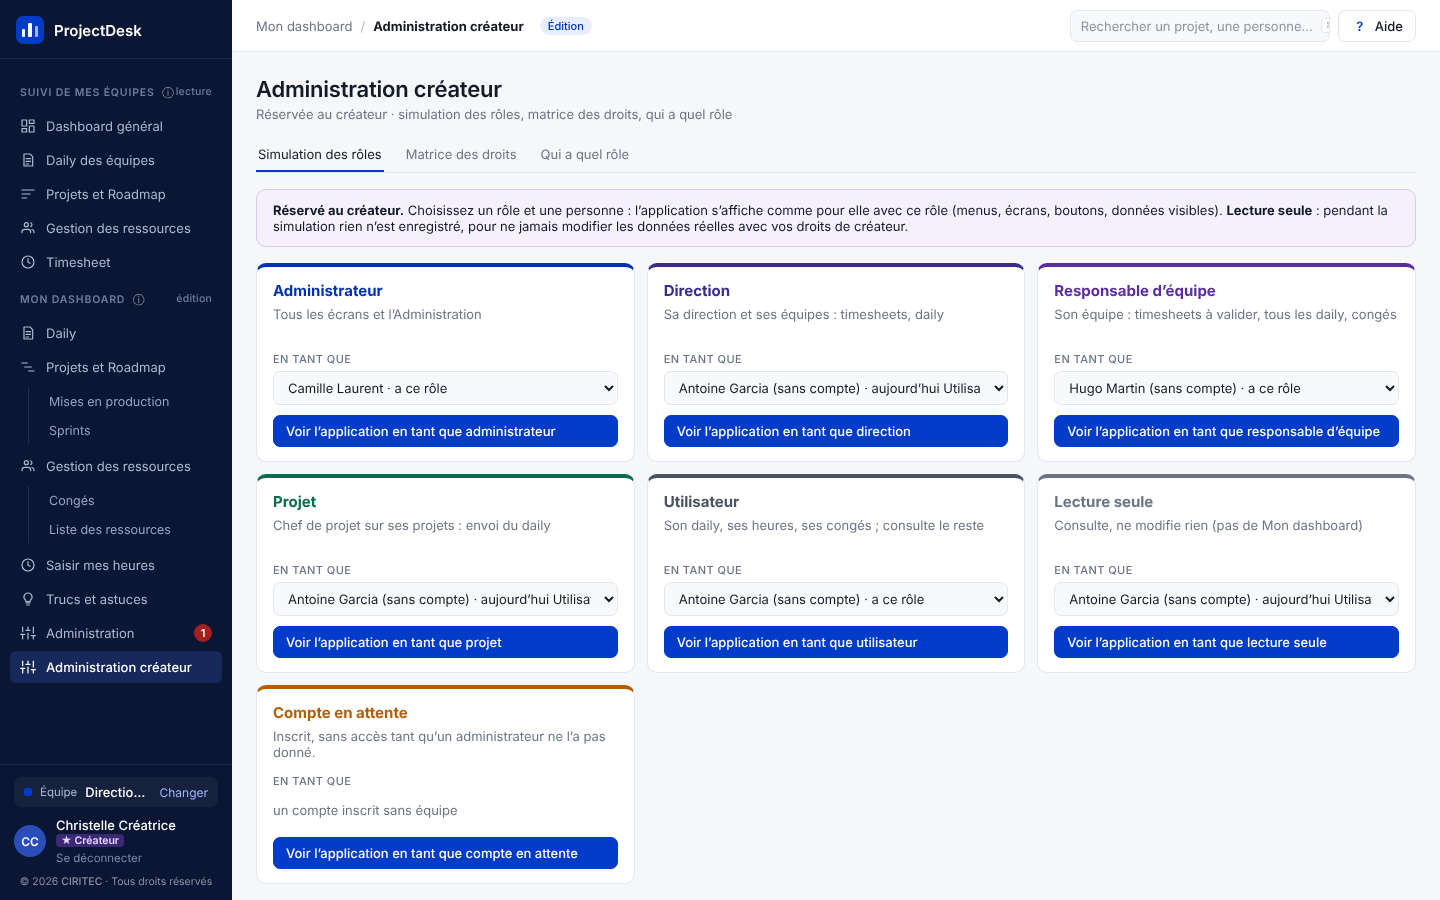
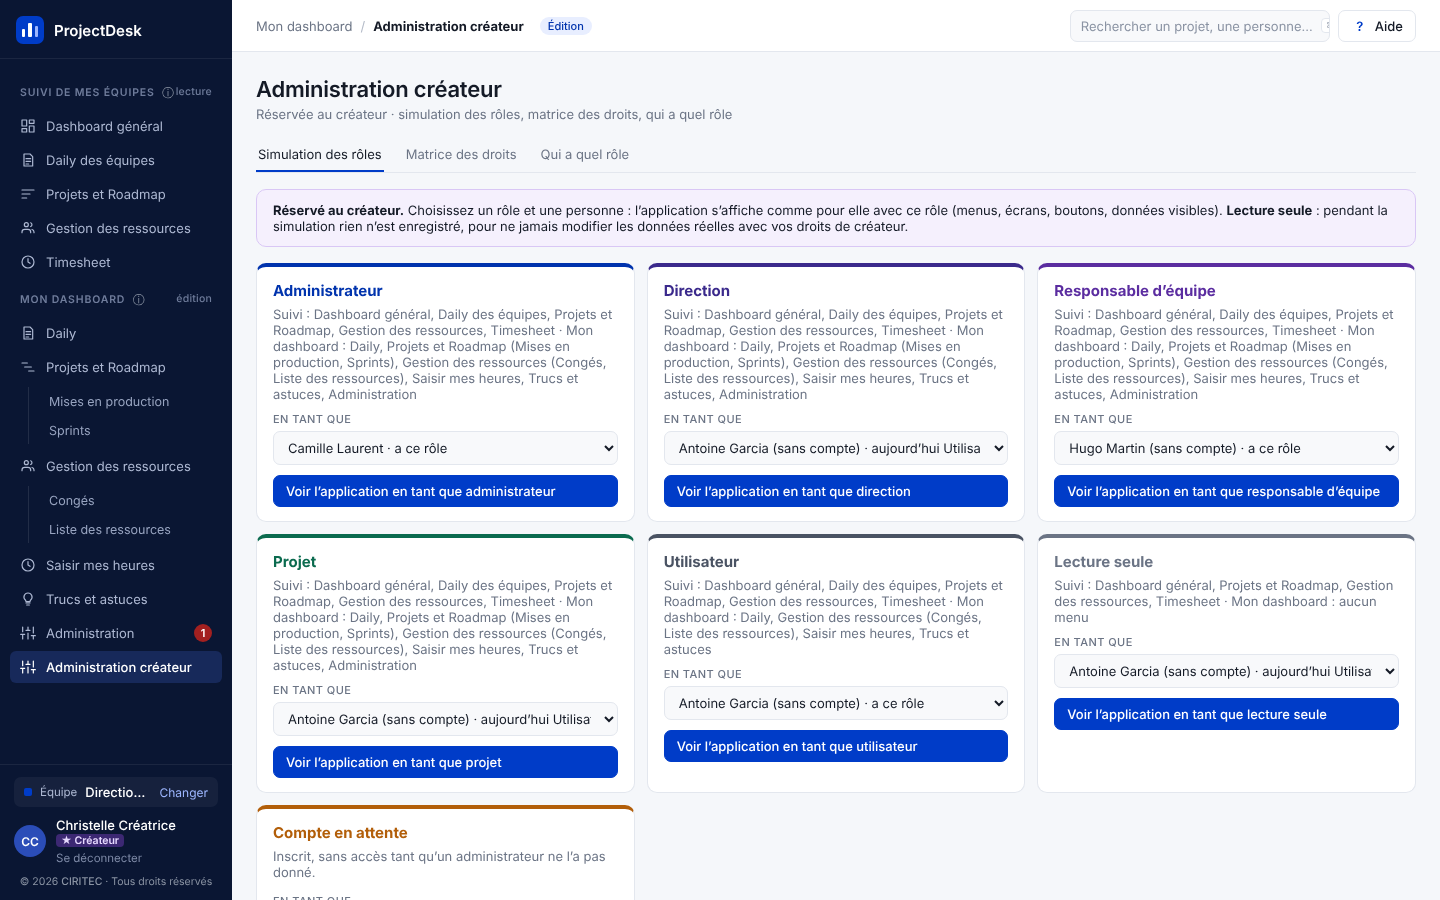
Cohérence matrice des droits et affichage : sous-menus et descriptions de rôles calculés d'après la matrice (2.46)
Claude-Session: https://claude.ai/code/session_016gJ86ah3wuZcBiGAqfo7RG

Changed region(s): [[0.1875, 0.3422, 1.0, 1.0]]

diff --git a/app/js/coquille.js b/app/js/coquille.js
@@ -39,9 +39,9 @@ const Coquille = (() => {
   const MENU_MOI = [
     { id: 'daily', libelle: 'Daily', icone: 'daily' },
     // Projets et Roadmap : sous-menus comme Gestion des ressources (porteur 2026-10-23, maquette menu-projets-roadmap/)
-    // Menu masqué si le droit « projets » de la matrice est « Non » pour mon rôle (le rôle Utilisateur, porteur 2026-10-25)
-    { id: 'mesProjets', libelle: 'Projets et Roadmap', icone: 'road', visible: () => niveauDroit('projets') !== 'non',
-      enfants: [{ id: 'mesProjets', libelle: 'Mises en production' }, { id: 'mesSprints', libelle: 'Sprints' }] },
+    // Chaque sous-menu suit sa ligne de la matrice : Mises en production = droit « projets », Sprints = son onglet (porteur 2026-10-25)
+    { id: 'mesProjets', libelle: 'Projets et Roadmap', icone: 'road',
+      enfants: [{ id: 'mesProjets', libelle: 'Mises en production', droit: 'projets' }, { id: 'mesSprints', libelle: 'Sprints' }] },
     { id: 'conges', libelle: 'Gestion des ressources', icone: 'ress',
       enfants: [{ id: 'conges', libelle: 'Congés' }, { id: 'listeRessources', libelle: 'Liste des ressources' }] },
     // Saisir mes heures : menu à part, sorti de Gestion des ressources (porteur, 2026-10-22) ; le suivi des équipes
@@ -55,8 +55,27 @@ const Coquille = (() => {
   ];
   const PLEIN_ECRAN = ['connexion', 'choixEquipe'];
 
-  // Menu ouvert à mon rôle : son écran (ou, pour un menu à sous-menus, l'un de ses sous-menus) a un onglet permis
-  const menuOuvert = item => item.enfants ? item.enfants.some(e => ecranOuvert(e.id)) : ecranOuvert(item.id);
+  /* Menu ouvert à un rôle (le mien si aucun rôle n'est précisé) : son écran (ou, pour un menu à sous-menus, l'un de
+     ses sous-menus) a un onglet permis, et le droit propre du sous-menu n'est pas « Non » */
+  const enfantOuvert = (e, role) => (!e.droit || niveauPour(e.droit, role) !== 'non') && ecranOuvert(e.id, role);
+  const menuOuvert = (item, role) => item.enfants ? item.enfants.some(e => enfantOuvert(e, role)) : ecranOuvert(item.id, role);
+
+  /* Menus que voit un rôle, d'après la matrice : { suivi, moi } (listes de menus avec leurs sous-menus ouverts).
+     Sert à la barre latérale (mon rôle) et aux cartes des rôles (Simulation, Qui a quel rôle) : un seul calcul, donc
+     jamais d'écart entre ce qui est décrit et ce qui est affiché. Le menu du créateur n'est pas un menu de rôle. */
+  function menusDuRole(role) {
+    const suivi = MENU_GENERAL.filter(item => niveauPour(item.droit, role) !== 'non' && ecranOuvert(item.id, role));
+    const moi = niveauPour('mon_dashboard', role) === 'non' ? []
+      : MENU_MOI.filter(item => (role ? !item.visible : (!item.visible || item.visible())) && menuOuvert(item, role))
+        .map(item => ({ ...item, enfants: item.enfants && item.enfants.filter(e => enfantOuvert(e, role)) }));
+    return { suivi, moi };
+  }
+  // « Suivi : Dashboard général, Timesheet · Mon dashboard : Daily, Gestion des ressources (Congés, …) » pour un rôle
+  function resumeDuRole(role) {
+    const { suivi, moi } = menusDuRole(role);
+    const nom = m => m.libelle + (m.enfants ? ` (${m.enfants.map(e => e.libelle).join(', ')})` : '');
+    return `Suivi : ${suivi.map(nom).join(', ') || 'aucun menu'} · Mon dashboard : ${moi.map(nom).join(', ') || 'aucun menu'}`;
+  }
 
   function lienMenu(item) {
     const actif = etat.ecran === item.id && !item.enfants;
@@ -64,7 +83,7 @@ const Coquille = (() => {
     const html = `<a class="menu-lien${actif ? ' actif' : ''}" data-action="aller" data-ecran="${item.id}">${icone(item.icone)}
       <span>${esc(item.libelle)}</span>${alerte ? `<span class="pastille-alerte">${alerte}</span>` : ''}</a>`;
     if (!item.enfants) return html;
-    return html + `<div class="sous-menu">${item.enfants.filter(e => ecranOuvert(e.id)).map(e =>
+    return html + `<div class="sous-menu">${item.enfants.map(e =>
       `<a class="sous-lien${etat.ecran === e.id ? ' actif' : ''}" data-action="aller" data-ecran="${e.id}">${esc(e.libelle)}</a>`).join('')}</div>`;
   }
 
@@ -72,15 +91,15 @@ const Coquille = (() => {
   function barreLaterale() {
     const eq = equipe(etat.equipeCourante);
     const nom = etat.session.user.name || etat.session.user.email;
-    const menusSuivi = MENU_GENERAL.filter(item => niveauDroit(item.droit) !== 'non' && ecranOuvert(item.id));
+    const menus = menusDuRole();
     return `
     <aside class="laterale${ui('menuLateral', { ouvert: false }).ouvert ? ' ouverte' : ''}">
       ${C.marque()}
       <nav>
-        ${menusSuivi.length ? `<div class="menu-titre"><span>Suivi de mes équipes ${C.aide('sectionGeneral')}</span><span>lecture</span></div>
-        ${menusSuivi.map(lienMenu).join('')}` : ''}
+        ${menus.suivi.length ? `<div class="menu-titre"><span>Suivi de mes équipes ${C.aide('sectionGeneral')}</span><span>lecture</span></div>
+        ${menus.suivi.map(lienMenu).join('')}` : ''}
         ${niveauDroit('mon_dashboard') === 'non' ? '' : `<div class="menu-titre"><span>Mon dashboard ${C.aide('sectionMoi')}</span><span>édition</span></div>
-        ${MENU_MOI.filter(item => (!item.visible || item.visible()) && menuOuvert(item)).map(lienMenu).join('')}`}
+        ${menus.moi.map(lienMenu).join('')}`}
       </nav>
       <div class="bloc-utilisateur">
         <div class="bloc-equipe">${C.pastille(eq.couleur)}<span class="discret">Équipe</span><b>${etat.equipeCourante ? esc(eq.nom) : 'aucune'}</b>
@@ -169,7 +188,7 @@ const Coquille = (() => {
     </div>`;
   }
 
-  return { rendre };
+  return { rendre, resumeDuRole };
 })();
 
 // Actions de la coquille

diff --git a/app/index.html b/app/index.html
@@ -11,7 +11,7 @@
 <link href="https://fonts.googleapis.com/css2?family=IBM+Plex+Sans:wght@400;500;600;700&family=IBM+Plex+Mono:wght@400;500&display=swap" rel="stylesheet">
 <!-- ?v= : version des fichiers (= version du DAT), à changer à chaque livraison : force le navigateur
      à recharger le code au lieu de réutiliser une ancienne copie en mémoire. -->
-<link rel="stylesheet" href="css/theme.css?v=2.45">
+<link rel="stylesheet" href="css/theme.css?v=2.46">
 </head>
 <body>
   <!-- Toute l'interface est dessinée dans #app par js/coquille.js et js/ecrans/*.js -->
@@ -19,32 +19,32 @@
   <div id="notification" class="notification" role="status"></div>
 
   <!-- Ordre de chargement : configuration, outils, état, puis écrans (qui s'enregistrent dans Ecrans) -->
-  <script src="js/config.js?v=2.45"></script>
-  <script src="js/api.js?v=2.45"></script>
-  <script src="js/calculs.js?v=2.45"></script>
-  <script src="js/etat.js?v=2.45"></script>
-  <script src="js/composants.js?v=2.45"></script>
-  <script src="js/coquille.js?v=2.45"></script>
-  <script src="js/panneau-projet.js?v=2.45"></script>
-  <script src="js/modale.js?v=2.45"></script>
-  <script src="js/excel.js?v=2.45"></script>
-  <script src="js/roles.js?v=2.45"></script>
-  <script src="js/simulation.js?v=2.45"></script>
-  <script src="js/ecrans/connexion.js?v=2.45"></script>
-  <script src="js/ecrans/choix-equipe.js?v=2.45"></script>
-  <script src="js/ecrans/dashboard.js?v=2.45"></script>
-  <script src="js/ecrans/projets.js?v=2.45"></script>
-  <script src="js/ecrans/ressources.js?v=2.45"></script>
-  <script src="js/ecrans/administration.js?v=2.45"></script>
-  <script src="js/ecrans/timesheet.js?v=2.45"></script>
-  <script src="js/ecrans/daily-equipes.js?v=2.45"></script>
-  <script src="js/ecrans/daily.js?v=2.45"></script>
-  <script src="js/ecrans/mes-projets.js?v=2.45"></script>
-  <script src="js/ecrans/sprints.js?v=2.45"></script>
-  <script src="js/ecrans/conges.js?v=2.45"></script>
-  <script src="js/ecrans/liste-ressources.js?v=2.45"></script>
-  <script src="js/ecrans/mon-timesheet.js?v=2.45"></script>
-  <script src="js/ecrans/mon-admin.js?v=2.45"></script>
-  <script src="js/ecrans/astuces.js?v=2.45"></script>
+  <script src="js/config.js?v=2.46"></script>
+  <script src="js/api.js?v=2.46"></script>
+  <script src="js/calculs.js?v=2.46"></script>
+  <script src="js/etat.js?v=2.46"></script>
+  <script src="js/composants.js?v=2.46"></script>
+  <script src="js/coquille.js?v=2.46"></script>
+  <script src="js/panneau-projet.js?v=2.46"></script>
+  <script src="js/modale.js?v=2.46"></script>
+  <script src="js/excel.js?v=2.46"></script>
+  <script src="js/roles.js?v=2.46"></script>
+  <script src="js/simulation.js?v=2.46"></script>
+  <script src="js/ecrans/connexion.js?v=2.46"></script>
+  <script src="js/ecrans/choix-equipe.js?v=2.46"></script>
+  <script src="js/ecrans/dashboard.js?v=2.46"></script>
+  <script src="js/ecrans/projets.js?v=2.46"></script>
+  <script src="js/ecrans/ressources.js?v=2.46"></script>
+  <script src="js/ecrans/administration.js?v=2.46"></script>
+  <script src="js/ecrans/timesheet.js?v=2.46"></script>
+  <script src="js/ecrans/daily-equipes.js?v=2.46"></script>
+  <script src="js/ecrans/daily.js?v=2.46"></script>
+  <script src="js/ecrans/mes-projets.js?v=2.46"></script>
+  <script src="js/ecrans/sprints.js?v=2.46"></script>
+  <script src="js/ecrans/conges.js?v=2.46"></script>
+  <script src="js/ecrans/liste-ressources.js?v=2.46"></script>
+  <script src="js/ecrans/mon-timesheet.js?v=2.46"></script>
+  <script src="js/ecrans/mon-admin.js?v=2.46"></script>
+  <script src="js/ecrans/astuces.js?v=2.46"></script>
 </body>
 </html>

diff --git a/tests/parcours.js b/tests/parcours.js
@@ -875,6 +875,30 @@ const verifier = (nom, condition, detail = '') => { resultats.push({ nom, ok: !!
       && document.querySelector('.moi-nom').textContent === 'Thomas Bernard'));
     verifier('Simulation : le rôle Utilisateur n’a pas le menu Projets et Roadmap de Mon dashboard',
       !(await page.$('.laterale [data-ecran="mesProjets"]')) && !(await page.$('.laterale [data-ecran="mesSprints"]')));
+    // Cohérence matrice ↔ affichage : pour chaque rôle, les menus de la barre latérale sont exactement ceux que la matrice ouvre
+    const incoherences = await page.evaluate(() => {
+      const ecarts = [], niveau = (role, droit) => niveauDuRole(role, droit);
+      const personne = etat.simulation.ressourceId;
+      ROLES_CHOISISSABLES.forEach(role => {
+        Simulation.demarrer(role, personne);
+        const affiche = new Set([...document.querySelectorAll('.laterale .menu-lien > span:first-of-type, .laterale .sous-lien')].map(e => e.textContent.trim()));
+        const dashboard = niveau(role, 'mon_dashboard') !== 'non', ouvert = d => niveau(role, d) !== 'non';
+        const attendu = { 'Dashboard général': ouvert('suivi_dashboard'), 'Daily des équipes': ouvert('daily_equipes'), 'Timesheet': ouvert('suivi_timesheet'),
+          'Mises en production': dashboard && ouvert('projets'), 'Sprints': dashboard && ouvert('onglet_admin_sprints'),
+          'Congés': dashboard && (ouvert('onglet_conges_grille') || ouvert('onglet_conges_recap')), 'Saisir mes heures': dashboard,
+          'Liste des ressources': dashboard, 'Daily': dashboard };
+        Object.entries(attendu).forEach(([menu, doitEtre]) => { if (affiche.has(menu) !== doitEtre) ecarts.push(`${role} : « ${menu} » ${doitEtre ? 'manque' : 'affiché à tort'}`); });
+        // Le menu parent « Projets et Roadmap » de Mon dashboard n'existe que si l'un de ses sous-menus est ouvert
+        const parent = !!document.querySelector('.laterale .menu-lien[data-ecran="mesProjets"]');
+        if (parent !== (attendu['Mises en production'] || attendu['Sprints'])) ecarts.push(`${role} : menu parent Projets et Roadmap incohérent`);
+      });
+      Simulation.demarrer('utilisateur', personne);
+      return ecarts;
+    });
+    verifier('Matrice des droits ↔ affichage : pour chaque rôle, menus et sous-menus de la barre latérale = ce que la matrice ouvre', incoherences.length === 0, incoherences.join(' ; '));
+    verifier('Cartes des rôles : la description est calculée d’après la matrice (le rôle Utilisateur n’a plus Projets et Roadmap)',
+      await page.evaluate(() => { const u = Simulation.ROLES.find(r => r.cle === 'utilisateur').description;
+        return u.includes('Mon dashboard : Daily') && !u.includes('Projets et Roadmap (Mises'); }));
     // Droits par menu de Suivi de mes équipes (migration 037) : menu masqué si « Non » ; avant la migration, repli sur « general »
     const parMenu = await page.evaluate(() => {
       const ligne = etat.d.droitsRoles.find(d => d.role === monRole() && d.droit === 'suivi_projets'), avant = ligne.niveau;

diff --git a/app/js/config.js b/app/js/config.js
@@ -61,14 +61,14 @@ const ROLES_PROJET = { CHEF: 'Chef de projet', MEMBRE: 'Membre', LECTEUR: 'Lecte
    responsables_equipe, rôle dans l'organisation Neon Auth, roles_acces), d'où des clés fixes.
    « Chef de projet » se déduit de ses projets ; « Pas encore de compte » de sa fiche. */
 const ROLES_ACCES = {
-  admin: { libelle: 'Administrateur', description: 'Tous les écrans et l’Administration', texte: '#0033AD', fond: '#E8EEFF' },
-  direction: { libelle: 'Direction', description: 'Sa direction et ses équipes : timesheets, daily', texte: '#3B2A8C', fond: '#E9E6FA' },
-  responsable: { libelle: 'Responsable d’équipe', description: 'Son équipe : timesheets à valider, tous les daily, congés', texte: '#5B2DA0', fond: '#EDE6FA' },
-  projet: { libelle: 'Projet', description: 'Chef de projet sur ses projets : envoi du daily', texte: '#0B6B4F', fond: '#E3F5EC' },
-  utilisateur: { libelle: 'Utilisateur', description: 'Son daily, ses heures, ses congés ; consulte le reste', texte: '#4A5363', fond: '#F1F3F7' },
-  lecture: { libelle: 'Lecture seule', description: 'Consulte, ne modifie rien (pas de Mon dashboard)', texte: '#6B7485', fond: '#F4F5F7' },
-  chef: { libelle: 'Chef de projet', description: 'Ses projets : membres, envoi du daily', texte: '#8A5300', fond: '#FFF1D6' },
-  sansCompte: { libelle: 'Pas encore de compte', description: 'Fiche sans compte de connexion : aucun accès', texte: '#A32020', fond: '#FDECEC' }
+  admin: { libelle: 'Administrateur', texte: '#0033AD', fond: '#E8EEFF' },
+  direction: { libelle: 'Direction', texte: '#3B2A8C', fond: '#E9E6FA' },
+  responsable: { libelle: 'Responsable d’équipe', texte: '#5B2DA0', fond: '#EDE6FA' },
+  projet: { libelle: 'Projet', texte: '#0B6B4F', fond: '#E3F5EC' },
+  utilisateur: { libelle: 'Utilisateur', texte: '#4A5363', fond: '#F1F3F7' },
+  lecture: { libelle: 'Lecture seule', texte: '#6B7485', fond: '#F4F5F7' },
+  chef: { libelle: 'Chef de projet', texte: '#8A5300', fond: '#FFF1D6' },
+  sansCompte: { libelle: 'Pas encore de compte', texte: '#A32020', fond: '#FDECEC' }
 };
 // Rôles proposés dans Administration › Rôles (dans cet ordre)
 const ROLES_CHOISISSABLES = ['admin', 'direction', 'responsable', 'projet', 'utilisateur', 'lecture'];

diff --git a/app/js/simulation.js b/app/js/simulation.js
@@ -17,9 +17,10 @@
 const Simulation = {
   /* Rôles proposés : les 6 rôles d'accès d'Administration › Rôles et de la matrice des droits (ROLES_CHOISISSABLES,
      ROLES_ACCES, config.js), puis « Compte en attente » (compte inscrit sans équipe) — porteur 2026-10-22,
-     maquette docs/maquettes/simulation-six-roles/. Le Créateur n'y figure pas (c'est le rôle de départ). */
+     maquette docs/maquettes/simulation-six-roles/. Le Créateur n'y figure pas (c'est le rôle de départ).
+     La description de chaque rôle est calculée d'après la matrice des droits (Coquille.resumeDuRole). */
   get ROLES() {
-    return [...ROLES_CHOISISSABLES.map(cle => ({ cle, libelle: ROLES_ACCES[cle].libelle, description: ROLES_ACCES[cle].description,
+    return [...ROLES_CHOISISSABLES.map(cle => ({ cle, libelle: ROLES_ACCES[cle].libelle, description: Coquille.resumeDuRole(cle),
       couleur: ROLES_ACCES[cle].texte })),
     { cle: 'sansEquipe', libelle: 'Compte en attente', description: 'Inscrit, sans accès tant qu’un administrateur ne l’a pas donné.',
       couleur: COULEURS.orange }];

diff --git a/app/js/etat.js b/app/js/etat.js
@@ -369,9 +369,11 @@ const ongletsPermis = (ecran, liste) => liste.filter(o => ongletPermis(ecran, o.
 // Onglet affiché : celui choisi s'il est permis, sinon le premier permis (undefined si aucun)
 const ongletAffiche = (liste, choisi) => (liste.find(o => o.id === choisi) || liste[0] || {}).id;
 // Écran ouvert à mon rôle : il n'a pas de droit d'onglet, ou au moins un de ses onglets est permis (menu masqué sinon)
-function ecranOuvert(ecran) {
+// Niveau d'un droit pour un rôle donné, ou pour moi si aucun rôle n'est précisé (barre latérale et cartes des rôles : mêmes règles)
+const niveauPour = (droit, role) => role ? niveauDuRole(role, droit) : niveauDroit(droit);
+function ecranOuvert(ecran, role) {
   const onglets = DROITS.filter(d => d.ecran === ecran);
-  return !onglets.length || onglets.some(d => niveauDroit(d.cle) !== 'non');
+  return !onglets.length || onglets.some(d => niveauPour(d.cle, role) !== 'non');
 }
 
 /* ---------- Accès pratiques aux données ---------- */

diff --git a/tests/serveur-simule.js b/tests/serveur-simule.js
@@ -149,6 +149,7 @@ function amorcer() {
     onglet_admin_feries: 'administration', onglet_admin_envoi_daily: 'piloter', onglet_admin_sprints: 'mon_dashboard',
     onglet_astuces_agile: 'general', onglet_astuces_roadmap: 'general', onglet_astuces_test_learn: 'general' };
   Object.entries(ONGLETS).forEach(([onglet, depart]) => { MATRICE[onglet] = MATRICE[depart]; });
+  MATRICE.onglet_admin_sprints = 'oui oui oui oui non non';   // le rôle Utilisateur n'a pas Projets et Roadmap (porteur 2026-10-25)
   const ROLES_MATRICE = ['admin', 'direction', 'responsable', 'projet', 'utilisateur', 'lecture'];
   bd.droits_roles = Object.entries(MATRICE).flatMap(([droit, niveaux]) =>
     niveaux.split(' ').map((niveau, i) => ({ role: ROLES_MATRICE[i], droit, niveau })));

diff --git a/docs/DAT.md b/docs/DAT.md
@@ -160,6 +160,7 @@
 | 2.43    | 2026-10-24 | **Les projets s'affichent par leur nom, plus par leur code** (porteur : « je ne veux plus en front qu'on affiche l'ID (APP-02) des projets, je veux leurs noms ») : code retiré de tous les écrans (Timesheet de Suivi — colonne Projets en étiquettes de noms, Liste des ressources, panneau projet, Daily, Daily des équipes, Projets et Roadmap, Mes projets, Sprints, Gestion des ressources, Rôles, fenêtres d'affectation et d'envoi du daily, listes déroulantes). Le code reste en base, dans la recherche et dans les exports Excel du daily ; les codes des objectifs, résultats clés et équipes sont inchangés. Aucune donnée touchée. 137 contrôles |
 | 2.44    | 2026-10-24 | **Mises en production : tickets livrés à la place du contenu** (porteur : « Mon dashboard › mise en production : à la place de contenu je veux le nombre de tickets Bug, Incident, US livrés ») : migration **044** additive (colonnes `nb_bugs`, `nb_incidents`, `nb_us`, entier ≥ 0, défaut 0 ; **aucune donnée touchée**, table vide avant et après ; la colonne `contenu` est conservée mais n'est plus affichée) ; cache de la Data API rechargé ; Mon dashboard › Projets et Roadmap › Mises en production : trois colonnes numériques Bugs / Incidents / US (ajout et modification en ligne) ; l'infobulle du repère ▲ du Planning projet affiche « 5 US · 3 bugs · 1 incidents ». 138 contrôles |
 | 2.45    | 2026-10-25 | **Le rôle Utilisateur n'a plus Projets et Roadmap dans Mon dashboard** (porteur : « le rôle utilisateur ne doit pas avoir accès à Projets et roadmap dans Mon dashboard ») : le menu (Mises en production et Sprints) est masqué quand le droit « projets » de la matrice est « Non » pour le rôle (`visible` de l'entrée dans `coquille.js`) ; réglage de départ du rôle Utilisateur passé de « Lecture » à « Non » — **une seule ligne de `droits_roles` modifiée** (`utilisateur` × `projets`), à la demande du porteur, aucune autre donnée touchée ; modifiable ensuite par le créateur dans la matrice. Les autres rôles sont inchangés (Lecture seule garde « Lecture »). 139 contrôles |
+| 2.46    | 2026-10-25 | **Cohérence matrice des droits ↔ affichage** (porteur : « il y a un problème de cohérence entre la matrice des droits et ce qui est affiché pour chaque rôle ») : audit des 6 rôles avec la matrice réelle de production. Écarts trouvés et corrigés : (1) le menu Mon dashboard › Projets et Roadmap était masqué en bloc par le droit « projets » alors que la matrice donnait « Oui » au rôle Utilisateur pour l'onglet Sprints — chaque sous-menu suit maintenant sa propre ligne (Mises en production = « projets », Sprints = `onglet_admin_sprints`), le menu parent n'existe que si l'un des deux est ouvert, et la ligne `onglet_admin_sprints` du rôle Utilisateur est passée à « Non » (**une ligne de `droits_roles` modifiée**, à la demande du porteur) ; (2) les descriptions des rôles (cartes de Simulation, « Qui a quel rôle ») étaient du texte fixe qui ne suivait plus la matrice — elles sont désormais **calculées** (`Coquille.resumeDuRole`) par la même fonction que la barre latérale (`menusDuRole`), donc jamais en décalage. Nouveau contrôle automatique : pour chaque rôle, menus et sous-menus affichés = ce que la matrice ouvre. Constats laissés au porteur (données de la matrice, non modifiées) : le rôle Direction a « Non » sur Mon dashboard, donc ses droits « fiches » et « affecter », exercés dans Mon dashboard, sont inutilisables ; la base garde d'anciennes lignes de droits sans effet (`onglet_charge_*`, `onglet_conges_capacite`, `suivi_administration`, `onglet_suivi_*`). 141 contrôles |
 | 1.44    | 2026-09-27 | Calcul type Scrum : formule déplacée dans une pop-in (bouton « Comment est-ce calculé ? » en haut à droite), avec un exemple chiffré sur CDO (membres, jours ouvrés, absences, cérémonies, focus) (§ 2.1, § 3.3) |
 
 ---
@@ -526,7 +527,7 @@ refusée sur `referentiels` et `administrateurs` (usurpation).
 | Outil | Contenu |
 |-------|---------|
 | `tests/serveur-simule.js` | Neon Auth (dont Google simulé) + Data API simulés en mémoire, identifiants numérotés (et non aléatoires) pour des captures reproductibles, données de la maquette (comptes `camille@test.fr` administratrice/owner, `thomas@test.fr` membre, `elodie@test.fr` demandeuse, `admin@test.fr` administratrice sans équipe ; mot de passe `motdepasse`) |
-| `tests/parcours.js` | Parcours Playwright de bout en bout (139 contrôles, dont « Suivi de mes équipes en lecture seule », l'aller-retour Google simulé, le parcours administrateur sans équipe, le daily des équipes, l'export Excel du daily, le plan de charge et le board des ressources) + captures `docs/maquettes/etat-actuel/` |
+| `tests/parcours.js` | Parcours Playwright de bout en bout (141 contrôles, dont « Suivi de mes équipes en lecture seule », l'aller-retour Google simulé, le parcours administrateur sans équipe, le daily des équipes, l'export Excel du daily, le plan de charge et le board des ressources) + captures `docs/maquettes/etat-actuel/` |
 | `scripts/verifier-docs.js` | Cohérence documentation ↔ code après chaque commit (§ 11) |
 
 Les règles RLS ne sont pas simulées : elles sont vérifiées en base et lors de la recette réelle.
